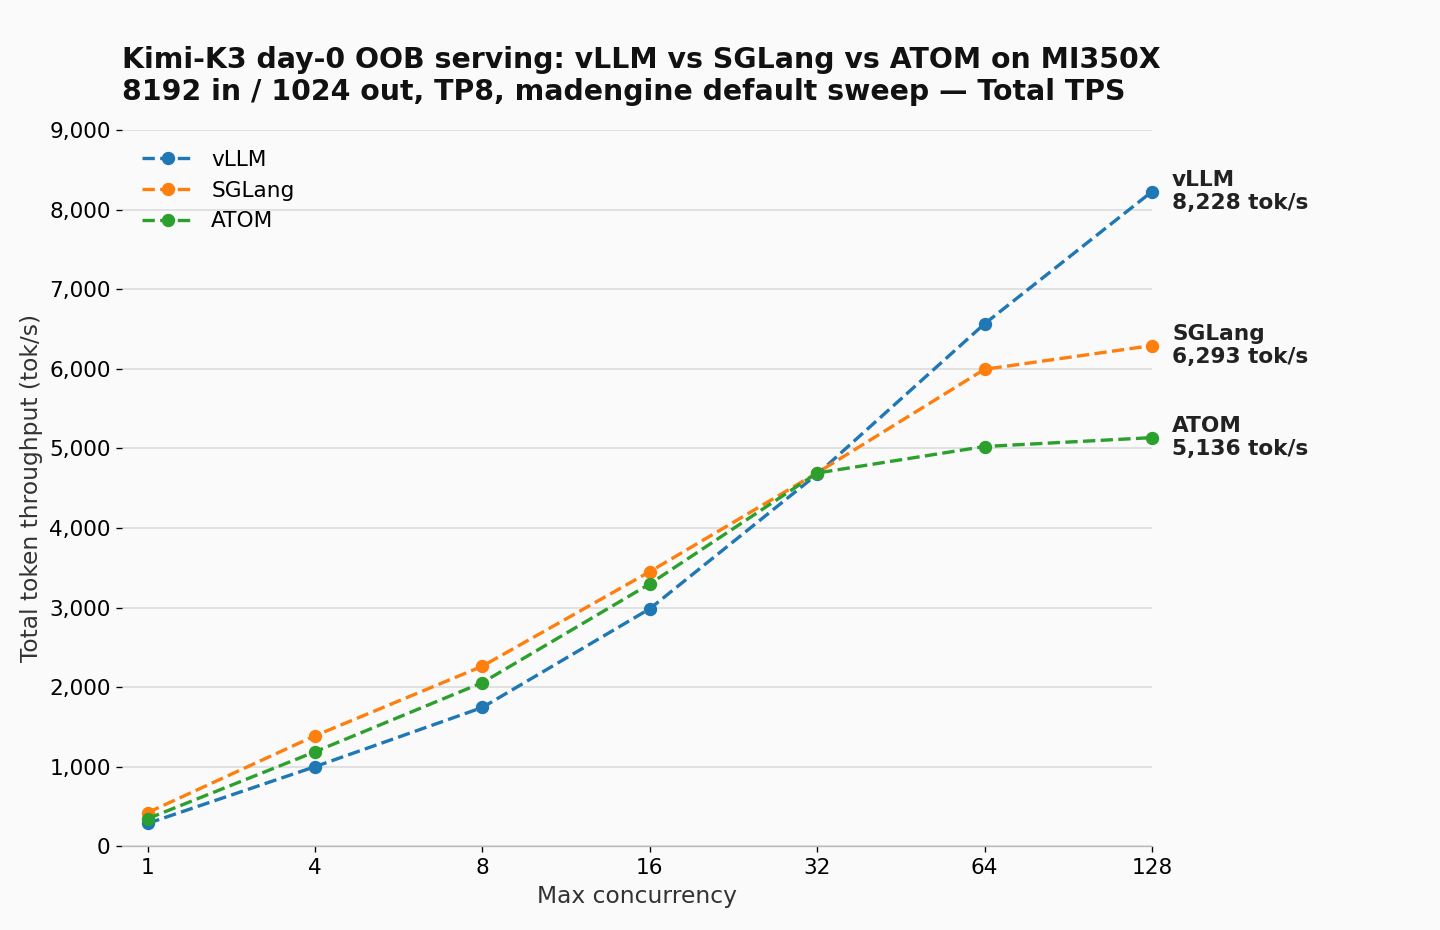
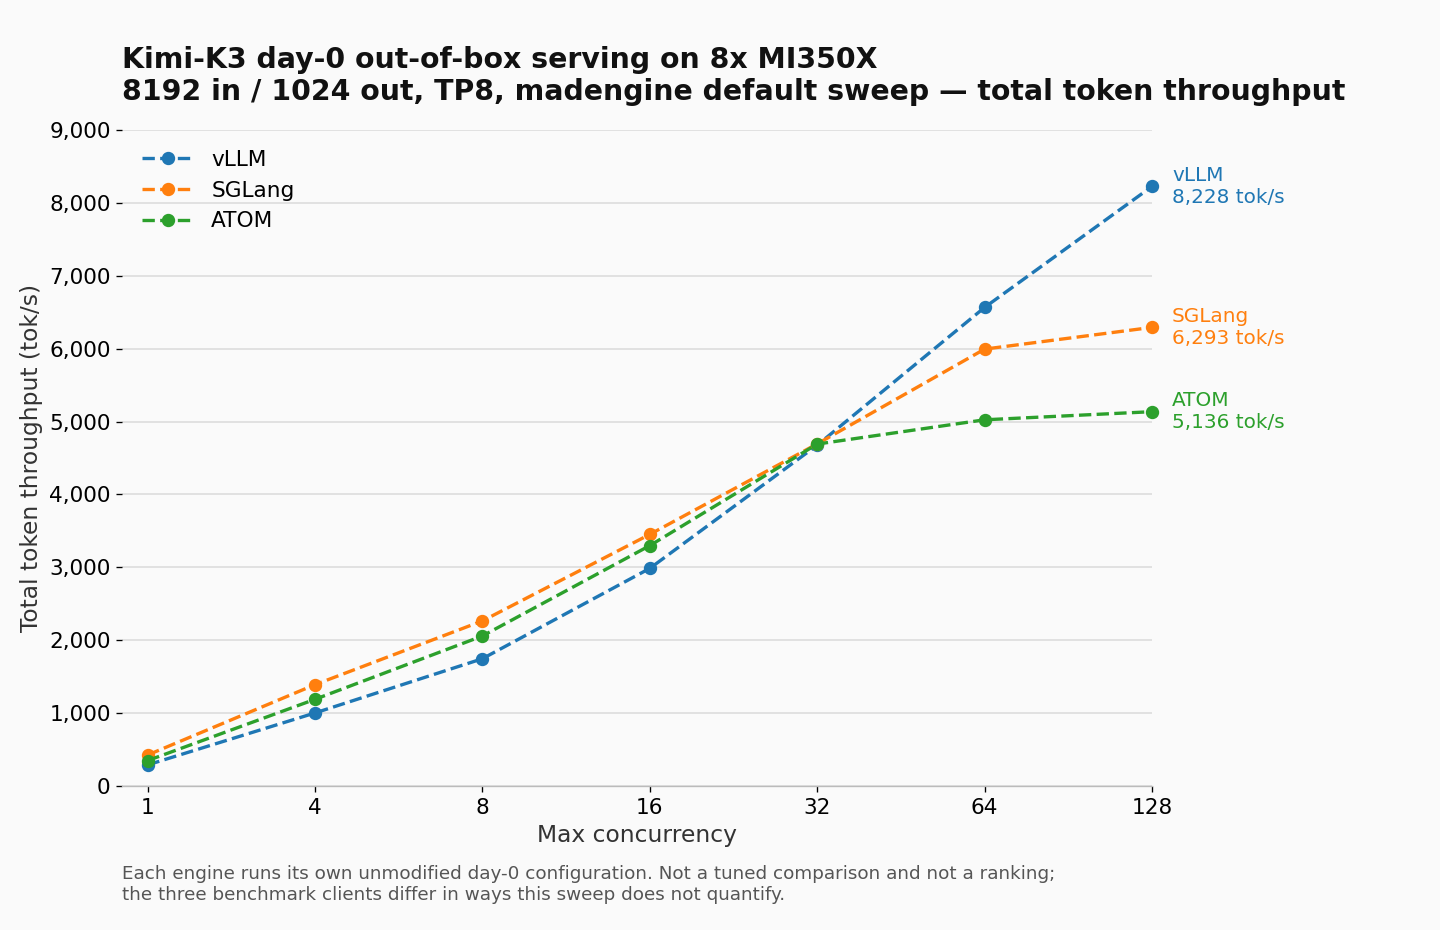
Fix AMD legal self-audit items in Kimi-K3 blog
- Remove leftover images/README.md placeholder note
- Neutralize Figure 3 as a ranked engine comparison (retitle, drop bold
  ranked end-labels, add on-figure "not a leaderboard" note) and update
  its alt text accordingly
- Reword two absolute/superlative statements ("first-class", "always")
- Correct third-party trademark attribution: vLLM is a Linux Foundation
  (PyTorch Foundation-hosted) trademark, not a separate "vLLM Project" mark

diff --git a/blogs/artificial-intelligence/kimi-k3-mad/README.md b/blogs/artificial-intelligence/kimi-k3-mad/README.md
@@ -88,15 +88,15 @@ boundaries lie.
 - **Your sweep, same harness.** Copy the config, set your own ISL/OSL and concurrency, and
   point a run at it with `--additional-context`. Same containers, same CSV schema.
 - **Hardware-aware guardrails.** `skip_gpu_arch: "gfx942"` keeps today's gfx950 recipe
-  from silently mis-running on MI300X/MI325X, which it hasn't been validated for;
-  `arch_overrides` is the same mechanism a future MI300X wideEP recipe would use once one
-  is validated.
-- **Reliability by design.** Automatic server-health gating, unbuffered logging, model-cache
-  reuse, and a common core CSV schema make a run on your cluster reproduce a run on ours.
-- **An out-of-box snapshot.** A default `madengine run` on 8× MI350X shows all three
-  engines within 0.5% of each other through concurrency 32, then separating as batching
-  policy starts to dominate. Read it as a launch-day picture of three enablement efforts
-  at different stages, not as an engine comparison. See Figure 3.
+  from silently mis-running on MI300X/MI325X, which it has not been validated for;
+  `arch_overrides` is the general mechanism the shipped configs use to vary settings by
+  GPU architecture.
+- **Consistency by design.** Automatic server-health gating, unbuffered logging, model-cache
+  reuse, and a common core CSV schema help a run on your cluster line up with a run on ours.
+- **An out-of-box snapshot.** A default `madengine run` on 8× MI350X shows the three
+  engines converging to within 0.5% of each other at concurrency 32, with a wider spread
+  both below and above that point. Read it as a launch-day picture of three day-0
+  out-of-box configurations, not as an engine comparison. See Figure 3.
 
 ---
 
@@ -124,13 +124,13 @@ and ATOM images is the build date of the K3-enabled container.
 |---|---|
 | System | Supermicro AS-8126GS-TNMR (H14DSG-OD baseboard) |
 | GPUs | 8× AMD Instinct™ MI350X (gfx950), TP8 |
-| CPU | 2× AMD EPYC 9575F, 64 cores each |
+| CPU | 2× AMD EPYC™ 9575F, 64 cores each |
 | Host memory | 3 TiB (24× 128 GiB DDR5-6400 RDIMM) |
 | Storage | 2× Micron 7450 3.84 TB NVMe (PCIe Gen 5) |
 | Host networking | 2× Broadcom BCM57508 (up to 200 GbE), 2× Intel X710, 2× Intel X550 |
-| GPU interconnect | Infinity Fabric, single node; no multi-node fabric used |
+| GPU interconnect | Single node; no multi-node fabric used |
 | OS | Ubuntu 24.04 |
-| ROCm version | 7.2.3 (`rocm-core 7.2.3.70203-90`) |
+| AMD ROCm™ version | 7.2.3 (`rocm-core 7.2.3.70203-90`) |
 | amdgpu driver | 6.16.13 (`amdgpu-dkms 1:6.16.13.30300100-2303411.24.04`) |
 | VBIOS / firmware | `113-M350-01-1K1-030A` (identical across all 8 GPUs) |
 | GPU details | gfx950, device ID `0x75a0`, 256 CUs, HSA runtime 1.18 |
@@ -158,8 +158,8 @@ tag points at today. That distinction matters here: Docker Hub tags are mutable,
 both the vLLM and SGLang tags a `docker manifest inspect` run during the same build
 session already returned a *different* digest than the build had pulled
 (`a8798d4a…` and `c75ce7a3…` respectively). Pull by digest, not by tag, to reproduce
-these runs. The ATOM Dockerfile is the only one of the three that already pins by digest
-in-repo.
+these runs. The ATOM Dockerfile already pins by digest in-repo; the vLLM and SGLang
+Dockerfiles reference their base images by tag.
 
 ---
 
@@ -203,16 +203,16 @@ workload — and one command executes the whole pipeline.
 ![Figure 1: The madengine execution pipeline](images/kimi-k3-madengine-pipeline.png)
 
 Figure 1: The madengine execution pipeline. One registry entry drives all five stages;
-the only thing that changes between engines is which row of `models.json` you select.
+what changes between engines is which row of `models.json` you select.
 
 For every model, madengine performs the same five steps — **Build → Start → Resolve →
 Execute → Report** — regardless of which engine sits underneath. That uniformity is the
-whole point: the *operator experience* is identical across vLLM, SGLang, and ATOM, even
-though the internals could not be more different.
+whole point: the *operator experience* is the same across vLLM, SGLang, and ATOM, even
+though the internals differ substantially.
 
 ### The registry entry is the contract
 
-Here are the fields that make Kimi-K3-on-vLLM a first-class, one-command benchmark
+Here are the fields that make Kimi-K3-on-vLLM a one-command benchmark
 (the real entry also carries bookkeeping fields — `url`, `owner`,
 `training_precision`, `timeout` — omitted here for readability):
 
@@ -298,25 +298,26 @@ disables the GSM8K accuracy run is omitted:
     --mm-encoder-tp-mode: data                  # MoonViT-V2 is 401M; TP is pure overhead
     --max-num-seqs: 256
     --max-num-batched-tokens: 4096
-    --reasoning-parser: kimi_k3                  # K3 always thinks
+    --reasoning-parser: kimi_k3                  # K3 emits reasoning tokens by default
     --language-model-only: true                 # text-only bench frees VRAM for KV
 ```
 
 Notice that the comments encode *why* each knob is set — `AITER_SITUV2_A8W4: 1`
 "selects the AITER a8w4 MoE path"; `--mm-encoder-tp-mode: data` because "MoonViT-V2
 is only 401M params; TP on it is pure comm overhead." The recipe is self-documenting,
-and re-running it a month later on a different cluster reproduces the same run, because
-there is no hidden state.
+and re-running it a month later on a different cluster repeats the same configuration,
+because the run parameters live in the config rather than in the shell it was launched
+from.
 
 ### One shared sweep across three engines
 
-The primary reliability decision is that **all three engines run the same workload
+The primary alignment decision is that **all three engines run the same workload
 axes**: `inp=8192, out=1024, TP8`, swept over concurrency. The shipped configs list
 concurrency points `1·4·8·16·32·64·128·256`; the results in this post were measured
 through 128, and the 256 point has not been run on any engine.
 
 The sweep shape was chosen, not inherited. The SGLang config file documents how it was
-reverse-engineered from the framework's public day-0 tracking issue so the numbers stay
+derived from the framework's published day-0 tracking issue so the numbers stay
 comparable:
 
 > *"(E2EL − TTFT) / TPOT + 1 lands on ~1024 output tokens for every row, and
@@ -325,6 +326,8 @@ comparable:
 > MAD's usual 1024/1024 would produce numbers that cannot be compared against the
 > tracking issue."*
 
+The reported SGLang figures referenced in that comment are published in the SGLang
+day-0 tracking issue ([sgl-project/sglang#32548](https://github.com/sgl-project/sglang/issues/32548)).
 The workload was chosen so that MAD's output can be checked against the framework
 authors' own published figures, which gives the harness a cross-check against
 measurement error.
@@ -360,9 +363,9 @@ emits an EOS token can finish before 1024 output tokens, where vLLM and ATOM for
 full output length.
 
 These differences are real and unquantified: no controlled A/B run has isolated their
-effect on the reported throughput. Aligning the three bench invocations is tracked as a
-follow-up. Until then, treat cross-engine gaps as indicative rather than as measured
-engine differences.
+effect on the reported throughput, and the three bench invocations are not aligned on
+these secondary axes. Cross-engine gaps should therefore be read as indicative rather
+than as measured engine differences.
 
 The sweep expansion itself is handled generically by the runner — `max_concurrency`
 is a space-separated list that the runner takes a Cartesian product over, so adding a
@@ -376,7 +379,7 @@ SUPPORTED_LIST_ARGS = ['model', 'tp', 'inp', 'out', 'bs', 'num_prompts', 'max_co
 
 ---
 
-## Reliability Engineering: The Guardrails
+## Harness Guardrails
 
 Automation that produces wrong numbers quickly is worse than no automation. The MAD flow
 includes several guardrails so that a run that reports success is a run that measured
@@ -385,8 +388,8 @@ what it claims to measure.
 ### 1. Server-health gating before measurement
 
 Every serving runner launches the server as a subprocess and **polls it to readiness**
-before sending a single benchmark request — so a slow 1.56 TB load never gets
-mis-measured as high latency:
+before sending a benchmark request, so that the load time of a 1.56 TB checkpoint is not
+counted as request latency:
 
 ```sh
 # the server is polled until healthy; only then does the benchmark client start
@@ -396,13 +399,13 @@ until curl -s http://localhost:8000/v1/models; do sleep 30; done
 vLLM's runner allows 30 minutes for that poll. Both SGLang and ATOM raise it to 5400
 seconds, appropriate for a multi-terabyte checkpoint — SGLang polls `/health` rather
 than `/v1/models`, and ATOM's `_wait_for_server()` also watches the server process
-itself, returning as soon as it exits so an OOM during initialization fails fast
-instead of looking like a hang until the timeout expires.
+itself, returning as soon as that process exits rather than waiting for the full
+timeout to elapse.
 
 ### 2. Common core output schema
 
 Every engine — no matter its native JSON format — is parsed into a **common CSV core**,
-so downstream dashboards and regression checks never special-case the engine:
+so downstream dashboards and regression checks do not need to special-case the engine:
 
 ```text
 model, benchmark, tp, inp, out, num_prompts,
@@ -413,13 +416,13 @@ Each runner adds a few engine-native columns on top of that shared core — vLLM
 `dtype` and `bs`; SGLang adds `variant` (for the `nospec`/`dspark` split) and `dtype`;
 ATOM adds `kv_cache_dtype`, `hf_pipeline_tag`, and `bs`. Each engine's run produces its
 own `perf_Kimi-K3.csv`, and `update_perf_csv` merges each into the run-level `perf.csv`,
-carrying over any columns the base file doesn't already have — so no column is silently
-dropped even though the three engines don't emit byte-identical headers.
+carrying over any columns the base file doesn't already have — so engine-specific columns
+are preserved even though the three engines don't emit byte-identical headers.
 
 The runner records not just throughput but a set of common latency metrics —
-`median_ttft`, `median_tpot`, `median_itl`, `median_e2el` — plus the exact `cmd` that
-produced the row, so any number in the CSV can be traced back to the precise invocation
-that generated it. These are medians; the CSV does not carry the full latency
+`median_ttft`, `median_tpot`, `median_itl`, `median_e2el` — plus the `cmd` that
+produced the row, so each row in the CSV records the invocation that generated it.
+These are medians; the CSV does not carry the full latency
 distribution, though each engine's raw result JSON retains the percentiles requested via
 `--percentile-metrics`.
 
@@ -452,7 +455,7 @@ madengine run --tags pyt_vllm_kimi-k3 --keep-model-dir --live-output \
 `--keep-model-dir` preserves that cache between runs; `--live-output` streams the
 unbuffered logs so a long sweep is observable in real time rather than a black box.
 
-### 4. Hardware-aware gating — a default, not a hard law
+### 4. Hardware-aware gating
 
 Today's registry entries mark Kimi-K3 `skip_gpu_arch: gfx942`, because the day-0
 recipes on all three engines assume the model's native MXFP4 weights sit on the gfx950
@@ -464,17 +467,11 @@ generation (MI350X and MI355X) and run a dense TP8 layout:
 
 madengine reads the host's `MAD_SYSTEM_GPU_ARCHITECTURE` (the ROCm architecture
 string `rocminfo` reports — `gfx942` on MI300X/MI325X) and skips the workload rather
-than silently producing a result under the wrong assumptions.
-That gate is a property of *this recipe*, though, not of the model itself —
-MI300X/MI325X lack gfx950's native MXFP4 support, but a config
-built around wide expert-parallel (wideEP) sharding and a matched concurrency
-profile could still place Kimi-K3's 896 experts across enough MI300X GPUs to serve
-it, just with different quantization and a different parallelism shape than the
-TP8 recipe this post benchmarks. The same `arch_overrides` block the shipped configs
-already use elsewhere — e.g. `scripts/vllm/configs/default.yaml` forcing TP8 on gfx942
-where TP4 would OOM for other MoE models — is exactly the hook a future MI300X Kimi-K3
-config would use, so `skip_gpu_arch` here should be read as "no validated recipe
-yet," not "impossible."
+than silently producing a result under the wrong assumptions. That gate records the
+validated scope of *this recipe*: the configurations benchmarked here were written and
+validated for gfx950, and `skip_gpu_arch` keeps them from running outside it. madengine's
+`arch_overrides` block is the general mechanism the shipped configs use to vary settings
+by GPU architecture.
 
 ---
 
@@ -572,7 +569,7 @@ pass an absolute container path instead:
                        "docker_env_vars": {"CONFIG": "/cfg/custom.yaml"}}'
 ```
 
-The same three flags work for the other two engines; the only difference is which
+The same three flags work for the other two engines; the difference is which
 config the entry starts from — `scripts/sglang/configs/kimi_k3.yaml` for SGLang
 (which also takes `--variant nospec|dspark`) and `scripts/atom/configs/default.yaml`
 for ATOM.
@@ -580,7 +577,7 @@ for ATOM.
 ### What you give up
 
 A custom sweep is no longer comparable to Figure 3, Table 7, or the framework tracking
-issue — those numbers are only meaningful at 8192/1024. That is a fair trade when the
+issue — those numbers apply at 8192/1024. That is a fair trade when the
 question is "how does K3 serve *my* traffic on this node," and the wrong tool when the
 question is "is this engine faster than that one." Keep the shared sweep for the second
 question; because the core schema is shared, both sets of numbers land in the same
@@ -590,7 +587,7 @@ question; because the core schema is shared, both sets of numbers land in the sa
 |---|---|---|
 | `inp` / `out` | Input / output sequence length | Long `inp` raises KV pressure; may need lower `max_concurrency` |
 | `max_concurrency` | Sweep points (space-separated) | Each value is a full server-side run — cost scales linearly |
-| `tp` | Tensor parallel degree | K3 needs ~1680 GB; TP8 is the only fit on one 8-GPU node |
+| `tp` | Tensor parallel degree | TP8 is the configuration measured here; lower TP degrees were not evaluated |
 | `extra_args` | vLLM server flags | Passed through verbatim to `vllm serve` |
 | `env` | Kernel-path selection | Dropping `AITER_SITUV2_A8W4` costs real throughput |
 
@@ -619,33 +616,33 @@ CSVs lines the concurrency axis up row-for-row.
 Below is an out-of-box `madengine run` on 8× MI350X, all three engines, no tuning beyond
 the shared config in this post.
 
-![Kimi-K3 day-0 OOB serving throughput: vLLM vs SGLang vs ATOM on MI350X](images/kimi-k3-vllm-sglang-throughput.png)
+![Total token throughput against max concurrency for Kimi-K3 served on 8x MI350X, with vLLM, SGLang, and ATOM each running its own unmodified day-0 configuration](images/kimi-k3-vllm-sglang-throughput.png)
 
 Figure 3: **Out-of-box snapshot.** Total token throughput vs. max concurrency, 8192 in /
 1024 out, TP8, 8× MI350X, measured 2026-07-29. All three engines from the same madengine
 sweep, each using its day-0 out-of-box configuration; one run per concurrency point, no
 repetitions. This is not a tuned comparison and not a leaderboard — it is a picture of
-where each stack's K3-specific work stood on launch day, and it is the thing most likely
-to have changed by the time you re-run the command.
+how each stack's day-0 out-of-box configuration behaved on launch day, and it is the
+thing most likely to have changed by the time you re-run the command.
 
 Two properties of the shape matter more than the ordering. First, this is a *functional*
 result before it is a performance one: a 2.8T-parameter MoE with a new attention design
-serves correctly on a single 8× MI350X node, on three separate engines, on day 0.
-Second, through concurrency 32 all three land on essentially the same curve — 4,676 /
-4,694 / 4,692 tok/s, a spread under 0.5%. That convergence is an observation about this
-configuration; a single throughput point does not isolate which component — scheduler,
-kernels, precision, benchmark client, or hardware — sets the ceiling there.
+completes the full sweep on a single 8× MI350X node, on three separate engines, on day 0.
+No accuracy evaluation was run as part of this sweep, so these results establish that the
+model serves and produces output at the requested lengths — not that its output quality
+was assessed. Second, at concurrency 32 all three land on essentially the same point —
+4,676 / 4,694 / 4,692 tok/s, a spread under 0.5%. The spread is considerably wider below
+that point (at concurrency 1 the three values differ by more than 40%) and widens again
+above it. That single-point convergence is an observation about this configuration; one
+throughput point does not isolate which component — scheduler, kernels, precision,
+benchmark client, or hardware — sets the ceiling there.
 
-The curves separate past 32, and that is where engine-specific maturity is visible:
-continuous-batching policy, MoE dispatch at large batch, KV-cache layout. vLLM keeps
-climbing to 8,228 tok/s at concurrency 128; SGLang and ATOM flatten. ATOM's curve in
-particular reflects a generic serving path rather than a K3-tuned one — its day-0 recipe
-carries no model-specific kernel or batching work, so the high-concurrency numbers
-measure an un-optimized baseline, not a ceiling. The useful reading is the *gap between
-the low- and high-concurrency regimes* for each engine, as an indication of how much
-batching work remains. Because the primary sweep axes are aligned, those gaps are
-comparable across engines subject to the out-of-box differences in Table 4, whose effect
-on these numbers has not been measured.
+The curves separate past concurrency 32, where the engines' differing scheduling and
+batching defaults have more room to act. Because each engine runs its own out-of-box
+day-0 configuration, these high-concurrency values reflect those default settings rather
+than a tuned result for any engine, and the differences between the three benchmark
+clients noted in Table 4 remain unquantified. Each engine's day-0 configuration is a
+snapshot of one point in its development, and all three continue to change.
 
 | Concurrency | vLLM (tok/s) | SGLang (tok/s) | ATOM (tok/s) |
 |---:|---:|---:|---:|
@@ -665,18 +662,21 @@ through 128 only; 256 has not been measured on any of the three engines.
 
 ---
 
-## Limitations and Follow-Ups
+## Limitations
 
 The measurements above are a day-0 snapshot, and the following bound what they support:
 
 - **MI350X only.** The recipes target gfx950 (MI350X and MI355X), but every number here
   comes from an 8× MI350X node. MI355X has not been measured.
+- **Throughput only, no accuracy evaluation.** The sweep measures serving throughput and
+  latency; the GSM8K accuracy run is disabled in the configs used here, so output quality
+  was not assessed on any of the three engines.
 - **Single run per point.** Each concurrency point is one measurement over
   `10 × concurrency` prompts, with no repetitions and no warm-up iterations on the
   serving path. There is no run-to-run variance estimate, so small cross-engine
   differences should not be over-read.
-- **Concurrency 256 unmeasured.** The shipped configs list it; no engine has run it.
-  Aligning the configs with what was actually measured is a follow-up in the MAD repo.
+- **Concurrency 256 unmeasured.** The shipped configs list it; no engine has run it, so
+  the config's sweep list is wider than the measured range reported here.
 - **Bench-client defaults not normalized.** The prompt-length sampling and EOS
   differences in Table 4 are unquantified; no A/B run has isolated their effect.
 - **No long-context data.** Kimi-K3 supports a 1M-token context; the sweep uses 8192.
@@ -735,7 +735,7 @@ hf download moonshotai/Kimi-K3 \
 ```
 
 - **madengine:** [github.com/ROCm/madengine](https://github.com/ROCm/madengine)
-- **Model:** [moonshotai/Kimi-K3 on HuggingFace](https://huggingface.co/moonshotai/Kimi-K3)
+- **Model:** [moonshotai/Kimi-K3 on Hugging Face](https://huggingface.co/moonshotai/Kimi-K3)
 
 ## References
 
@@ -773,6 +773,6 @@ model, and system configuration.
 
 The information presented in this document is for informational purposes only and may contain technical inaccuracies, omissions, and typographical errors. The information contained herein is subject to change and may be rendered inaccurate for many reasons, including but not limited to product and roadmap changes, component and motherboard version changes, new model and/or product releases, product differences between differing manufacturers, software changes, BIOS flashes, firmware upgrades, or the like. Any computer system has risks of security vulnerabilities that cannot be completely prevented or mitigated. AMD assumes no obligation to update or otherwise correct or revise this information.
 However, AMD reserves the right to revise this information and to make changes from time to time to the content hereof without obligation of AMD to notify any person of such revisions or changes.
-THIS INFORMATION IS PROVIDED 'AS IS." AMD MAKES NO REPRESENTATIONS OR WARRANTIES WITH RESPECT TO THE CONTENTS HEREOF AND ASSUMES NO RESPONSIBILITY FOR ANY INACCURACIES, ERRORS, OR OMISSIONS THAT MAY APPEAR IN THIS INFORMATION. AMD SPECIFICALLY DISCLAIMS ANY IMPLIED WARRANTIES OF NON-INFRINGEMENT, MERCHANTABILITY, OR FITNESS FOR ANY PARTICULAR PURPOSE. IN NO EVENT WILL AMD BE LIABLE TO ANY PERSON FOR ANY RELIANCE, DIRECT, INDIRECT, SPECIAL, OR OTHER CONSEQUENTIAL DAMAGES ARISING FROM THE USE OF ANY INFORMATION CONTAINED HEREIN, EVEN IF AMD IS EXPRESSLY ADVISED OF THE POSSIBILITY OF SUCH DAMAGES.
-AMD, the AMD Arrow logo, AMD Instinct, AMD ROCm, CDNA, and combinations thereof are trademarks of Advanced Micro Devices, Inc. Other product names used in this publication are for identification purposes only and may be trademarks of their respective companies. Linux is the registered trademark of Linus Torvalds in the U.S. and other countries. PyTorch, the PyTorch logo and any related marks are trademarks of The Linux Foundation. vLLM is a trademark of vLLM Project. All other trademarks and product names referenced in this publication, including Kimi-K3, Moonshot AI, SGLang, ATOM, and HuggingFace, are the property of their respective owners.
-© 2026 Advanced Micro Devices, Inc. All rights reserved
+THIS INFORMATION IS PROVIDED "AS IS." AMD MAKES NO REPRESENTATIONS OR WARRANTIES WITH RESPECT TO THE CONTENTS HEREOF AND ASSUMES NO RESPONSIBILITY FOR ANY INACCURACIES, ERRORS, OR OMISSIONS THAT MAY APPEAR IN THIS INFORMATION. AMD SPECIFICALLY DISCLAIMS ANY IMPLIED WARRANTIES OF NON-INFRINGEMENT, MERCHANTABILITY, OR FITNESS FOR ANY PARTICULAR PURPOSE. IN NO EVENT WILL AMD BE LIABLE TO ANY PERSON FOR ANY RELIANCE, DIRECT, INDIRECT, SPECIAL, OR OTHER CONSEQUENTIAL DAMAGES ARISING FROM THE USE OF ANY INFORMATION CONTAINED HEREIN, EVEN IF AMD IS EXPRESSLY ADVISED OF THE POSSIBILITY OF SUCH DAMAGES.
+AMD, the AMD Arrow logo, AMD Instinct, AMD EPYC, AMD ROCm, and combinations thereof are trademarks of Advanced Micro Devices, Inc. Other product names used in this publication are for identification purposes only and may be trademarks of their respective companies. Linux is the registered trademark of Linus Torvalds in the U.S. and other countries. PyTorch, the PyTorch logo, vLLM, and any related marks are trademarks of The Linux Foundation. All other trademarks and product names referenced in this publication, including Kimi-K3, Moonshot AI, SGLang, and Hugging Face, are the property of their respective owners.
+© 2026 Advanced Micro Devices, Inc. All rights reserved.
